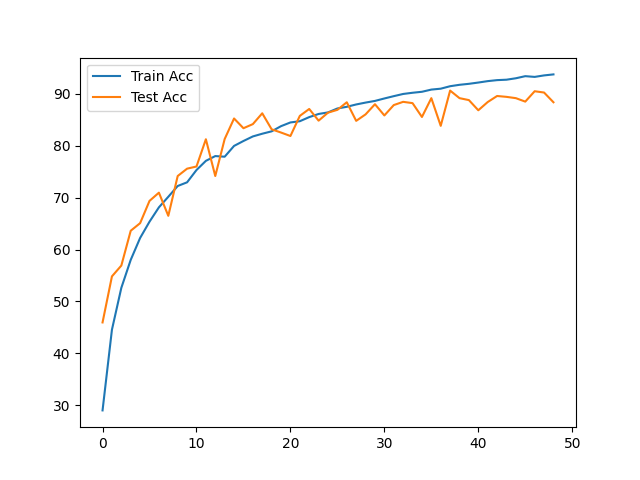
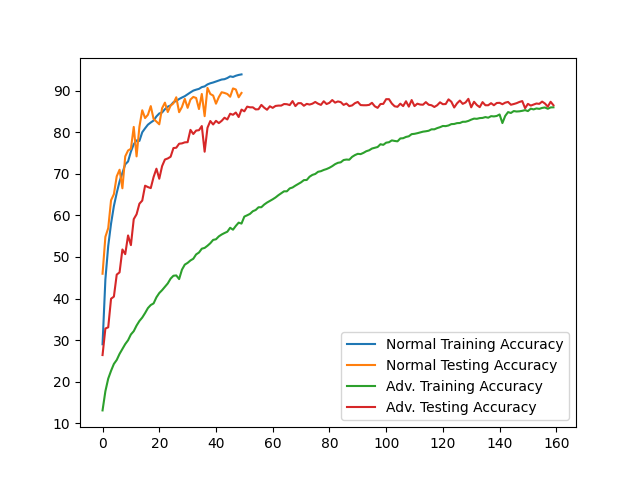
updata plot

diff --git a/plot.py b/plot.py
@@ -2,13 +2,19 @@ import matplotlib.pyplot as plt
 import pandas as pd
 import numpy as np
 
-df = pd.read_fwf('./logs/default_O1.log', skiprows=1)
-print(df.head(5))
+df_normal = pd.read_fwf('./logs/default_O1.log', skiprows=1)
+df_adv = pd.read_fwf('./logs/resnet50_adv_O1_arch.log', skiprows=1, skipfooter=1)
 
-plot1 = df[['Train Acc', 'Test Acc']]
+normal = df_normal[['Train Acc', 'Test Acc']]
+normal = normal.rename(columns={'Train Acc': 'Normal Training Accuracy', 'Test Acc': 'Normal Testing Accuracy'})
 
-plot1 = plot1.plot.line()
-fig = plot1.get_figure()
+adv = df_adv[['Train Acc', 'Test Acc']]
+adv = adv.rename(columns={'Train Acc': 'Adv. Training Accuracy', 'Test Acc': 'Adv. Testing Accuracy'})
+
+plot = pd.concat([normal, adv], axis=1)
+
+plot = plot.plot.line()
+fig = plot.get_figure()
 fig.savefig("plots.png")
 
 # # first 40 epochs
